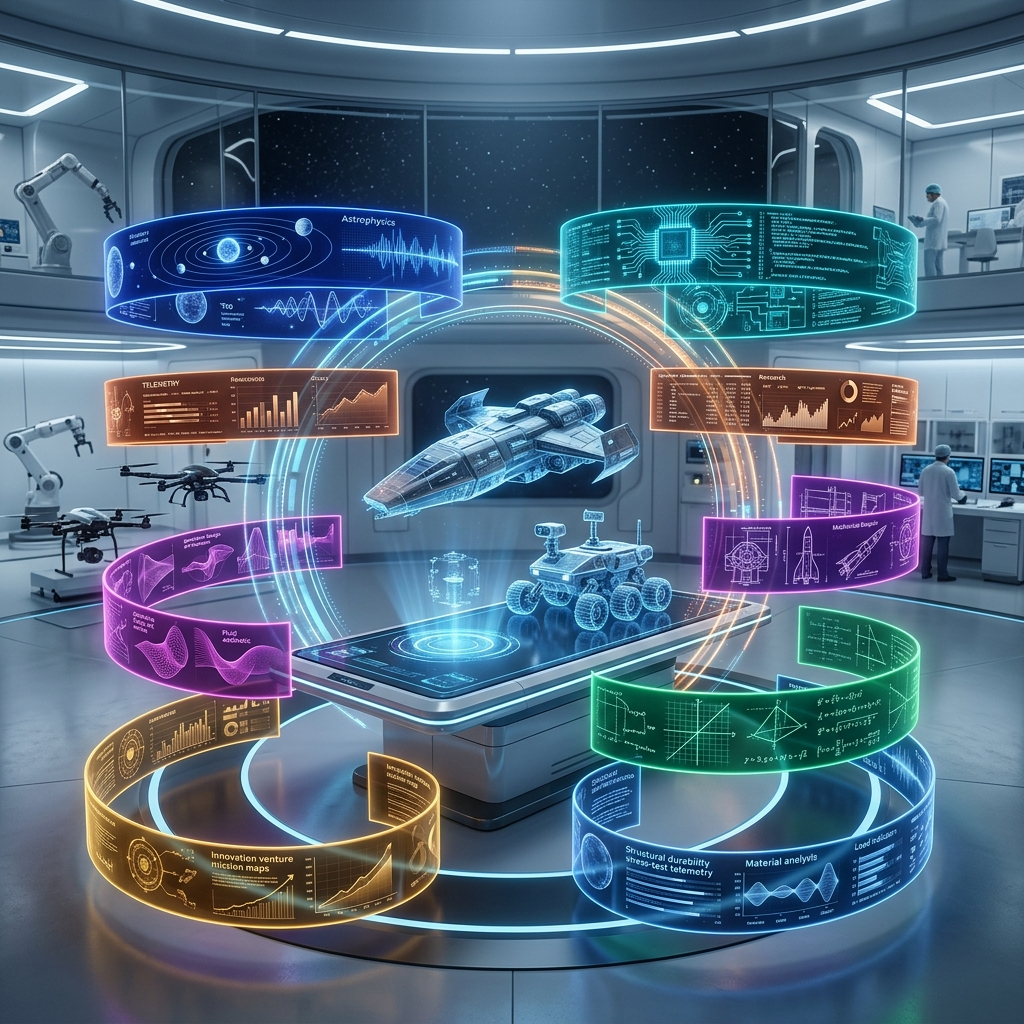
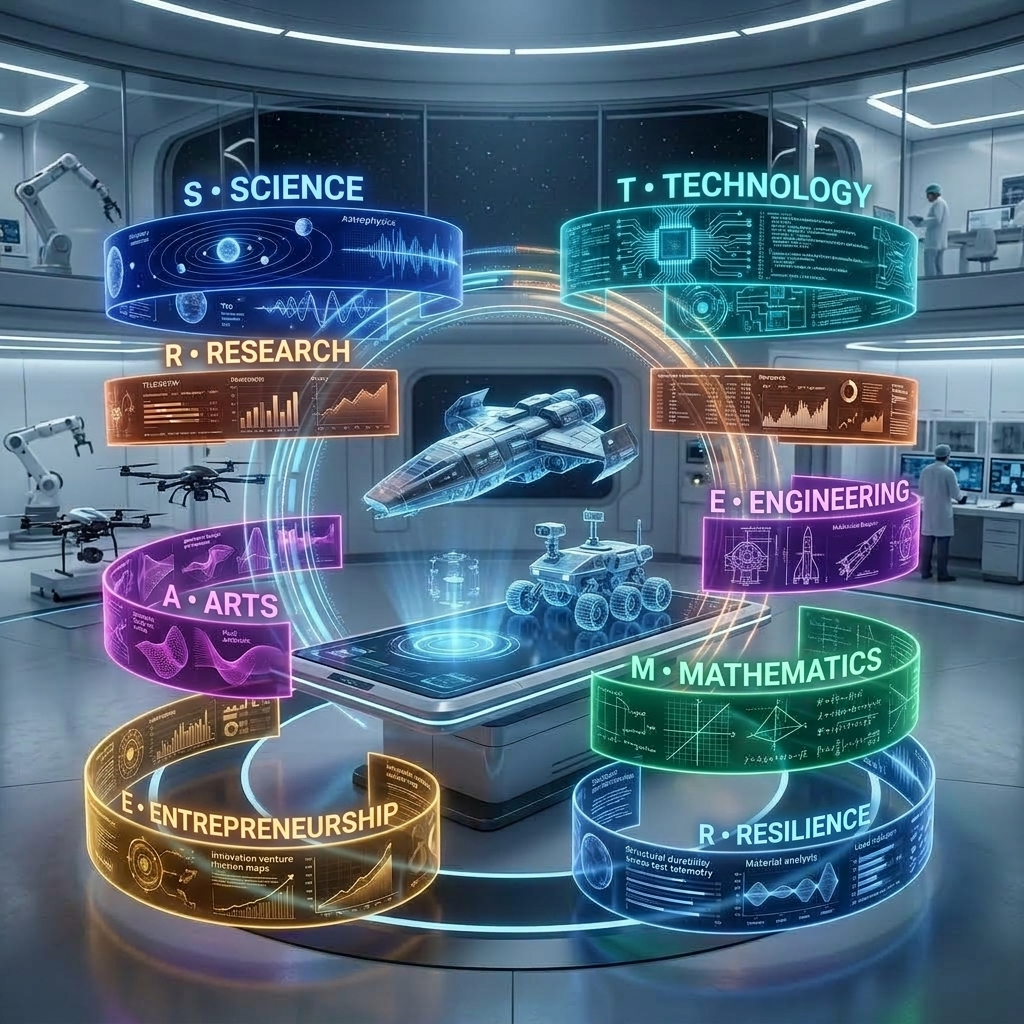
feat(hero): self-explanatory 3D hologram with embedded STREAMER labels and remove bottom HUD overlay

diff --git a/src/pages/HomePage.tsx b/src/pages/HomePage.tsx
@@ -181,58 +181,12 @@ export const HomePage: React.FC = () => {
                 <div className="absolute -inset-1.5 bg-gradient-to-tr from-streamer-science via-cyan-400 to-streamer-engineering rounded-3xl blur-md opacity-25 group-hover:opacity-40 transition-opacity" />
                 
                 {/* Main Image Frame */}
-                <div className="relative rounded-3xl overflow-hidden bg-white border border-slate-200 shadow-xl">
+                <div className="relative rounded-3xl overflow-hidden bg-white border border-slate-200/90 shadow-2xl">
                   <img
-                    src={`${import.meta.env.BASE_URL}streamer-hero.jpg?v=2`}
-                    alt="STREAMER Innovation Nexus — 8-Pillar Multidisciplinary Architecture in Aerospace, Robotics & Space"
+                    src={`${import.meta.env.BASE_URL}streamer-hero.jpg?v=3`}
+                    alt="STREAMER Innovation Nexus — Self-Explanatory 8-Pillar Hologram in Aerospace, Robotics & Space"
                     className="w-full h-auto object-cover transform group-hover:scale-105 transition-transform duration-700 ease-out"
                   />
-                  
-                  {/* Floating Tech HUD Overlay */}
-                  <div className="absolute bottom-3 left-3 right-3 p-3.5 rounded-2xl bg-white/95 backdrop-blur-md border border-slate-200/80 shadow-lg flex flex-col gap-2">
-                    <div className="flex items-center justify-between">
-                      <div>
-                        <div className="text-[10px] font-bold uppercase tracking-wider text-streamer-science font-mono flex items-center space-x-1.5">
-                          <span className="w-1.5 h-1.5 rounded-full bg-blue-600 animate-pulse" />
-                          <span>STREAMER Innovation Nexus</span>
-                        </div>
-                        <div className="text-xs font-bold text-slate-900 mt-0.5">
-                          8-Pillar Interdisciplinary Architecture
-                        </div>
-                      </div>
-                      <span className="px-2.5 py-1 rounded-full text-[10px] font-bold bg-emerald-50 text-emerald-700 border border-emerald-200 flex items-center gap-1.5 shadow-xs">
-                        <span className="w-1.5 h-1.5 rounded-full bg-emerald-500 animate-pulse" />
-                        8 Pillars Active
-                      </span>
-                    </div>
-
-                    {/* 8-Letter STREAMER Color Dots Strip */}
-                    <div className="pt-2 border-t border-slate-100 flex items-center justify-between">
-                      {[
-                        { letter: "S", name: "Science", color: "#2255A4" },
-                        { letter: "T", name: "Technology", color: "#0E7C6F" },
-                        { letter: "R", name: "Research", color: "#B65529" },
-                        { letter: "E", name: "Engineering", color: "#5A3FA0" },
-                        { letter: "A", name: "Arts", color: "#C23768" },
-                        { letter: "M", name: "Maths", color: "#41722E" },
-                        { letter: "E", name: "Entrepreneurship", color: "#9A6C10" },
-                        { letter: "R", name: "Resilience", color: "#1D6FA5" },
-                      ].map((item, idx) => (
-                        <div
-                          key={idx}
-                          title={`${item.name} (${item.letter})`}
-                          className="flex flex-col items-center cursor-default group/dot"
-                        >
-                          <span
-                            className="w-5 h-5 rounded-md text-[10px] font-bold font-mono text-white flex items-center justify-center shadow-xs transition-transform group-hover/dot:scale-115"
-                            style={{ backgroundColor: item.color }}
-                          >
-                            {item.letter}
-                          </span>
-                        </div>
-                      ))}
-                    </div>
-                  </div>
                 </div>
               </div>
             </div>
